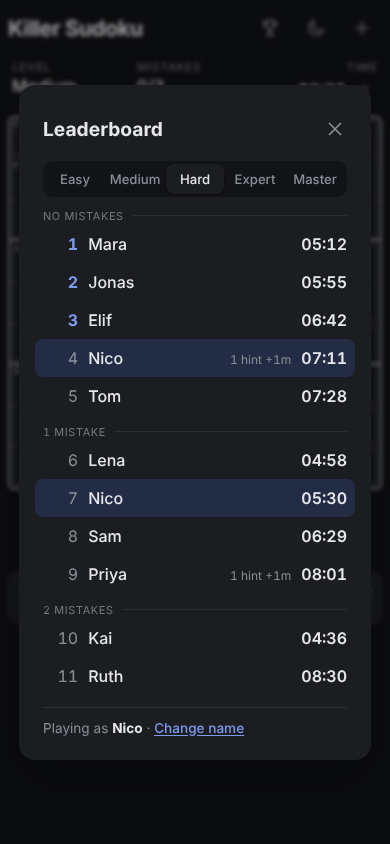
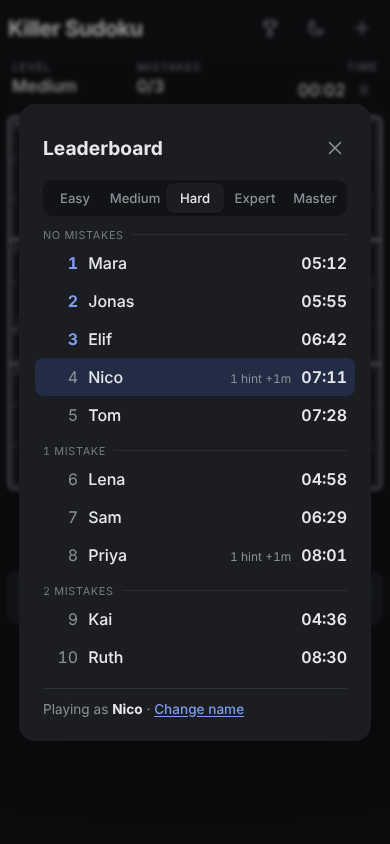
Show each player once, with their best entry
Best = fewest mistakes, then fastest ranked time. Updates the screenshots.

Claude-Session: https://claude.ai/code/session_01EoZgZrRMqSWLiuWWGR2Dn4

diff --git a/functions/api/scores.js b/functions/api/scores.js
@@ -2,7 +2,7 @@
 //
 //   GET  /api/scores?level=hard[&player=<id>]
 //        -> top 50: fewer mistakes rank first, then ranked time. A player keeps
-//           their best time for each mistake count, so can appear up to 3 times.
+//           only their best entry (fewest mistakes, then fastest), so appears once.
 //
 // Ranked time = solve time + hint penalty (see hintPenalty); `time` in responses
 // is that ranked time and `raw` the clock time. Mistakes don't add time; they
@@ -52,22 +52,19 @@ async function ipHash(request) {
 }
 
 /**
- * Best entry per player and mistake count within one level (?1). A player can
- * appear once for each mistake count. Ranked by mistakes first, then time.
+ * Each player's best entry within one level (?1): fewest mistakes, then
+ * fastest ranked time. The board is ranked the same way.
  */
 const BEST = `
   SELECT player, name, score, time, mistakes, hints, created_at FROM (
     SELECT player, name, time + ${PENALTY_SQL} AS score, time, mistakes, hints, created_at,
-           ROW_NUMBER() OVER (PARTITION BY player, mistakes ORDER BY time + ${PENALTY_SQL}, created_at) AS n
+           ROW_NUMBER() OVER (PARTITION BY player ORDER BY mistakes, time + ${PENALTY_SQL}, created_at) AS n
     FROM scores WHERE level = ?1
   ) WHERE n = 1`;
 const ORDER = "mistakes, score, created_at";
 
-/**
- * A player's entry and overall rank: the entry with the given mistake count,
- * or their highest-ranked entry when mistakes is null.
- */
-async function rankOf(db, level, player, mistakes = null) {
+/** A player's best entry and its rank, or null. */
+async function rankOf(db, level, player) {
   const row = await db
     .prepare(`WITH best AS (${BEST}) SELECT
         (SELECT COUNT(*) FROM best b WHERE b.mistakes < me.mistakes
@@ -75,9 +72,8 @@ async function rankOf(db, level, player, mistakes = null) {
            OR (b.score = me.score AND b.created_at < me.created_at)))) + 1 AS rank,
         me.score AS time, me.time AS raw, me.mistakes, me.hints, me.name,
         (SELECT COUNT(*) FROM best) AS total
-      FROM best me WHERE me.player = ?2 AND (?3 IS NULL OR me.mistakes = ?3)
-      ORDER BY rank LIMIT 1`)
-    .bind(level, player, mistakes)
+      FROM best me WHERE me.player = ?2`)
+    .bind(level, player)
     .first();
   return row || null;
 }
@@ -131,8 +127,8 @@ export async function onRequestPost({ request, env }) {
   // A name change applies to all of this player's entries.
   await env.DB.prepare("UPDATE scores SET name = ?1 WHERE player = ?2 AND name != ?1").bind(name, b.player).run();
 
-  const me = await rankOf(env.DB, level, b.player, b.mistakes);
-  return json({ ok: true, duplicate: res.meta.changes === 0, best: me?.time === b.time + hintPenalty(b.hints), me });
+  const me = await rankOf(env.DB, level, b.player);
+  return json({ ok: true, duplicate: res.meta.changes === 0, best: me?.mistakes === b.mistakes && me?.time === b.time + hintPenalty(b.hints), me });
 }
 
 /** Change the display name on all of a player's entries. */

diff --git a/public/js/app.js b/public/js/app.js
@@ -435,7 +435,7 @@ function showPosted(r) {
   const me = r.me;
   const name = escapeHtml(me?.name || lb.getName());
   const where = me ? ` You're <b>#${me.rank}</b> of ${me.total} on ${LEVELS[solve.level]}.` : "";
-  const note = r.best === false && me ? ` Your best is still ${fmt(me.time)}.` : "";
+  const note = r.best === false && me ? ` Your best is still ${fmt(me.time)} with ${me.mistakes ? plural(me.mistakes, "mistake") : "no mistakes"}.` : "";
   lbStatus(`Posted as ${name}.${where}${note} <button type="button" class="link-inline" data-open-board>See leaderboard</button>`);
 }
 

diff --git a/README.md b/README.md
@@ -25,7 +25,7 @@ When the solver gets stuck, the generator splits a cage at that spot. For Master
 - Number pad with remaining counts, Undo, Erase, Notes and Hint.
 - Mistake counter (three mistakes ends the game, or keep playing without a limit) and a timer that pauses when the tab is hidden.
 - **Area check:** drag across a row, column or box (or click a cell and shift-click another cell in the same unit, or hold Shift and press the arrow keys) to highlight it. The keypad then lights up the numbers that area is still missing.
-- **Leaderboard** per level (trophy button, top right). After your first solve you enter a name once; later solves are posted automatically. Everyone is in one ranking: solves with fewer mistakes always rank above solves with more, then by time plus a hint penalty. A subtle label marks where each mistake count starts. A player keeps their best time for each mistake count, so they can appear more than once. The first hint adds 1 minute, the second 2 more, the third 3 more and so on (5 hints = 15 minutes), so spamming Hint never pays off. Games continued past three mistakes don't count.
+- **Leaderboard** per level (trophy button, top right). After your first solve you enter a name once; later solves are posted automatically. Everyone is in one ranking: solves with fewer mistakes always rank above solves with more, then by time plus a hint penalty. A subtle label marks where each mistake count starts. Each player appears once, with their best entry (fewest mistakes, then fastest). The first hint adds 1 minute, the second 2 more, the third 3 more and so on (5 hints = 15 minutes), so spamming Hint never pays off. Games continued past three mistakes don't count.
 - Light and dark mode (follows the system until you toggle it).
 - Progress is saved locally, so a reload picks up where you left off.
 
